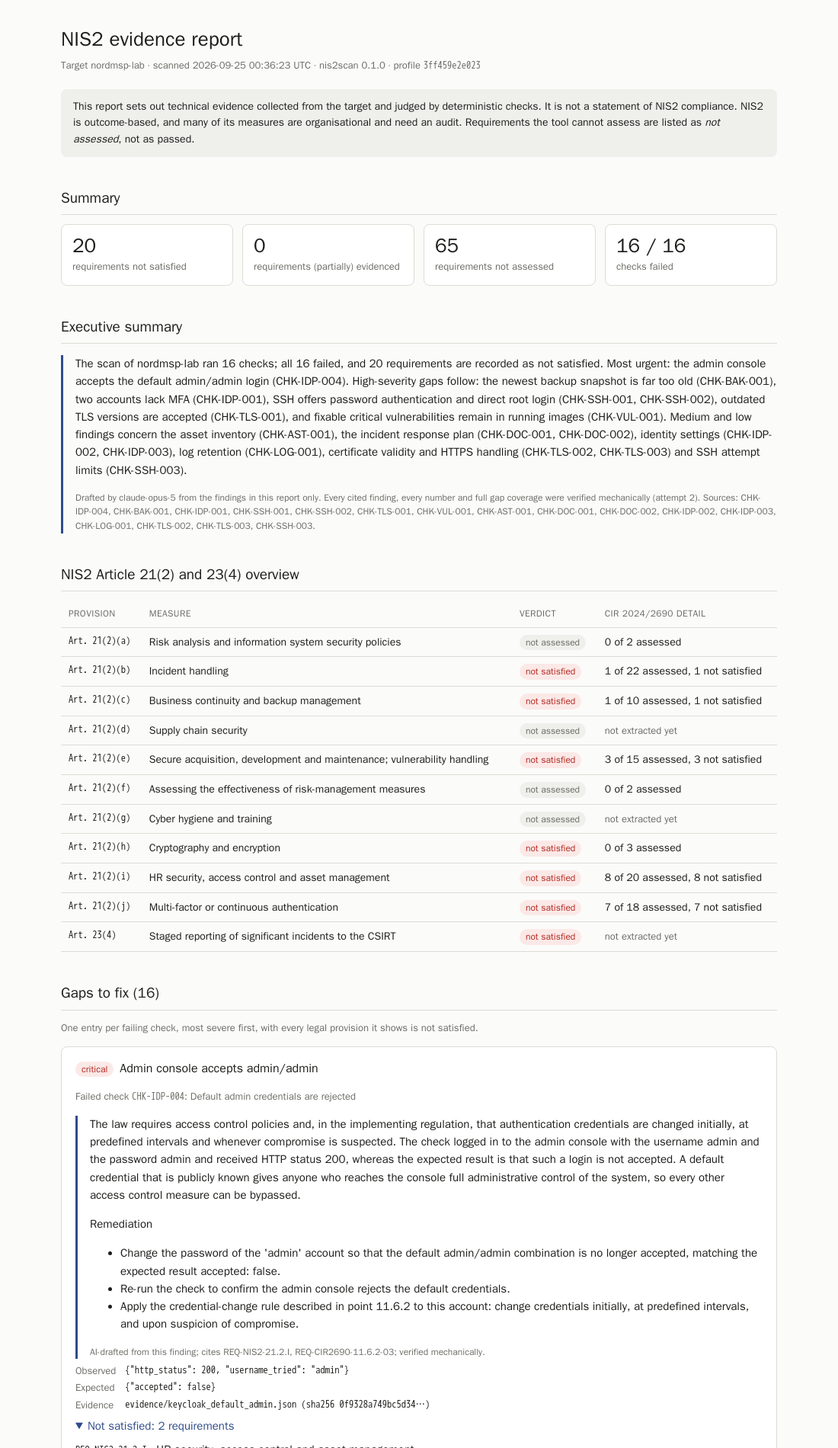
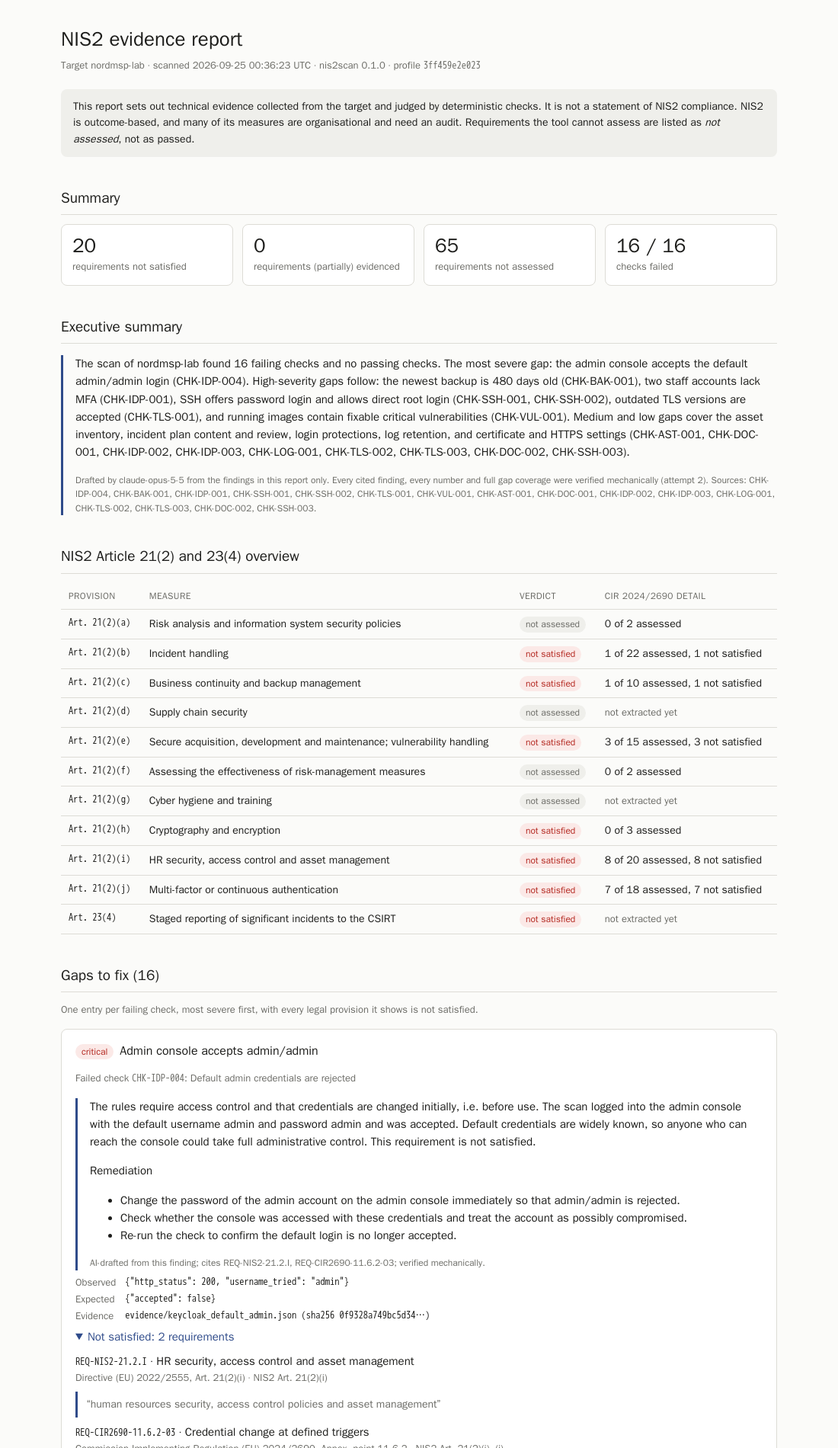
Use the Opus 5.5 narrative in the example report and update docs
The design doc's readability limitation now records that the model
change, not a looser validator, resolved it.

Changed region(s): [[0.0618, 0.2484, 0.9273, 1.0], [0.6182, 0.4037, 0.9273, 0.6521]]

diff --git a/docs/example-report/weak/report.html b/docs/example-report/weak/report.html
@@ -84,11 +84,11 @@
   
   <h2>Executive summary</h2>
   <div class="narrative">
-    <p>The scan of nordmsp-lab ran 16 checks; all 16 failed, and 20 requirements are recorded as not satisfied. Most urgent: the admin console accepts the default admin/admin login (CHK-IDP-004). High-severity gaps follow: the newest backup snapshot is far too old (CHK-BAK-001), two accounts lack MFA (CHK-IDP-001), SSH offers password authentication and direct root login (CHK-SSH-001, CHK-SSH-002), outdated TLS versions are accepted (CHK-TLS-001), and fixable critical vulnerabilities remain in running images (CHK-VUL-001). Medium and low findings concern the asset inventory (CHK-AST-001), the incident response plan (CHK-DOC-001, CHK-DOC-002), identity settings (CHK-IDP-002, CHK-IDP-003), log retention (CHK-LOG-001), certificate validity and HTTPS handling (CHK-TLS-002, CHK-TLS-003) and SSH attempt limits (CHK-SSH-003).</p>
+    <p>The scan of nordmsp-lab found 16 failing checks and no passing checks. The most severe gap: the admin console accepts the default admin/admin login (CHK-IDP-004). High-severity gaps follow: the newest backup is 480 days old (CHK-BAK-001), two staff accounts lack MFA (CHK-IDP-001), SSH offers password login and allows direct root login (CHK-SSH-001, CHK-SSH-002), outdated TLS versions are accepted (CHK-TLS-001), and running images contain fixable critical vulnerabilities (CHK-VUL-001). Medium and low gaps cover the asset inventory, incident plan content and review, login protections, log retention, and certificate and HTTPS settings (CHK-AST-001, CHK-DOC-001, CHK-IDP-002, CHK-IDP-003, CHK-LOG-001, CHK-TLS-002, CHK-TLS-003, CHK-DOC-002, CHK-SSH-003).</p>
     <div class="ai-label">
-      Drafted by claude-opus-5 from the findings in this report only. Every cited
+      Drafted by claude-opus-5-5 from the findings in this report only. Every cited
       finding, every number and full gap coverage were verified mechanically
-      (attempt 2). Sources: CHK-IDP-004, CHK-BAK-001, CHK-IDP-001, CHK-SSH-001, CHK-SSH-002, CHK-TLS-001, CHK-VUL-001, CHK-AST-001, CHK-DOC-001, CHK-DOC-002, CHK-IDP-002, CHK-IDP-003, CHK-LOG-001, CHK-TLS-002, CHK-TLS-003, CHK-SSH-003.
+      (attempt 2). Sources: CHK-IDP-004, CHK-BAK-001, CHK-IDP-001, CHK-SSH-001, CHK-SSH-002, CHK-TLS-001, CHK-VUL-001, CHK-AST-001, CHK-DOC-001, CHK-IDP-002, CHK-IDP-003, CHK-LOG-001, CHK-TLS-002, CHK-TLS-003, CHK-DOC-002, CHK-SSH-003.
     </div>
   </div>
   
@@ -189,9 +189,9 @@
     <div class="meta">Failed check <span class="mono">CHK-IDP-004</span>: Default admin credentials are rejected</div>
     
     <div class="narrative">
-      <p>The law requires access control policies and, in the implementing regulation, that authentication credentials are changed initially, at predefined intervals and whenever compromise is suspected. The check logged in to the admin console with the username admin and the password admin and received HTTP status 200, whereas the expected result is that such a login is not accepted. A default credential that is publicly known gives anyone who reaches the console full administrative control of the system, so every other access control measure can be bypassed.</p>
+      <p>The rules require access control and that credentials are changed initially, i.e. before use. The scan logged into the admin console with the default username admin and password admin and was accepted. Default credentials are widely known, so anyone who can reach the console could take full administrative control. This requirement is not satisfied.</p>
       <b>Remediation</b>
-      <ul><li>Change the password of the &#39;admin&#39; account so that the default admin/admin combination is no longer accepted, matching the expected result accepted: false.</li><li>Re-run the check to confirm the admin console rejects the default credentials.</li><li>Apply the credential-change rule described in point 11.6.2 to this account: change credentials initially, at predefined intervals, and upon suspicion of compromise.</li></ul>
+      <ul><li>Change the password of the admin account on the admin console immediately so that admin/admin is rejected.</li><li>Check whether the console was accessed with these credentials and treat the account as possibly compromised.</li><li>Re-run the check to confirm the default login is no longer accepted.</li></ul>
       <div class="ai-label">AI-drafted from this finding; cites REQ-NIS2-21.2.I, REQ-CIR2690-11.6.2-03; verified mechanically.</div>
     </div>
     
@@ -227,9 +227,9 @@
     <div class="meta">Failed check <span class="mono">CHK-BAK-001</span>: A recent backup snapshot exists</div>
     
     <div class="narrative">
-      <p>NIS2 requires business continuity including backup management, and the implementing regulation requires that backup copies of data are maintained. The scan found only 1 snapshot, with the newest dated 2025-06-01 and reported as 480 days old (age_hours 11542.6), against an expected max_age_hours of 26. Recovery from an incident would therefore fall back to a very old copy, and everything created since that snapshot would be lost.</p>
+      <p>The rules require backup management and that backup copies of data are maintained. The scan found only one backup snapshot, and it is 480 days old, far beyond the maximum age the profile allows. If data were lost or corrupted today, almost everything changed since that snapshot could not be recovered, threatening business continuity.</p>
       <b>Remediation</b>
-      <ul><li>Run and verify a new backup so a fresh snapshot exists for the target.</li><li>Schedule backups so that the newest snapshot always stays within the expected max_age_hours value of 26.</li><li>Monitor the age of the newest snapshot and alert when it approaches that expected value.</li></ul>
+      <ul><li>Restore regular, automated backup runs so that a new snapshot is produced within the maximum age set in the profile.</li><li>Monitor backup jobs and alert when the newest snapshot becomes older than allowed.</li><li>Test restoring from a recent snapshot to confirm the copies are usable.</li></ul>
       <div class="ai-label">AI-drafted from this finding; cites REQ-NIS2-21.2.C, REQ-CIR2690-4.2.1-01; verified mechanically.</div>
     </div>
     
@@ -265,9 +265,9 @@
     <div class="meta">Failed check <span class="mono">CHK-IDP-001</span>: Every staff account has MFA enrolled or is forced to enrol</div>
     
     <div class="narrative">
-      <p>The directive and the implementing regulation call for multi-factor or continuous authentication for access to network and information systems, and specifically strong authentication such as MFA for privileged and system administration accounts. The scan observed two accounts without MFA, kari.admin and ola.tech, and that new accounts are not required to enrol OTP (new_users_must_enrol_otp: false). A stolen or guessed password alone is then enough to sign in, and the gap will keep growing as new accounts are created.</p>
+      <p>The rules call for multi-factor authentication, especially for privileged and administration accounts. The accounts kari.admin and ola.tech have no MFA, and new accounts are not required to enrol a one-time-password (OTP) factor. A stolen or guessed password alone would be enough to access these accounts, including what appears to be an administrator account.</p>
       <b>Remediation</b>
-      <ul><li>Enrol MFA for the accounts kari.admin and ola.tech so that users_without_mfa becomes empty.</li><li>Set new_users_must_enrol_otp to true so that newly created accounts are required to enrol OTP.</li><li>Re-run the check to confirm both expected values are met.</li></ul>
+      <ul><li>Enrol MFA for kari.admin and ola.tech.</li><li>Turn on the setting that requires new users to enrol OTP (new_users_must_enrol_otp = true).</li><li>Re-run the check to confirm no account remains without MFA.</li></ul>
       <div class="ai-label">AI-drafted from this finding; cites REQ-NIS2-21.2.J, REQ-CIR2690-11.3.2-01, REQ-CIR2690-11.7.1-01; verified mechanically.</div>
     </div>
     
@@ -309,9 +309,9 @@
     <div class="meta">Failed check <span class="mono">CHK-SSH-001</span>: SSH does not offer password authentication</div>
     
     <div class="narrative">
-      <p>Access control policies must ensure the strength of authentication is appropriate to the classification of the asset being accessed. The SSH server offers both password and publickey authentication, while the check expects password, keyboard-interactive and none not to be offered. Because password login remains available, remote attackers can attempt to guess credentials for shell access instead of being limited to key-based authentication.</p>
+      <p>The rules require authentication strength that matches the importance of the system. The SSH server offers password login alongside key-based login. Passwords can be guessed or reused from elsewhere, so offering them weakens remote access to the server.</p>
       <b>Remediation</b>
-      <ul><li>Reconfigure the SSH server so password authentication is no longer offered, leaving publickey as the offered method.</li><li>Ensure keyboard-interactive and none are likewise not offered, as listed under expected not_offered.</li><li>Confirm the required users hold working public keys before the change, then re-run the check.</li></ul>
+      <ul><li>Disable password authentication on the SSH server so that only publickey is offered.</li><li>Make sure keyboard-interactive and none are also not offered.</li><li>Confirm all administrators have working keys before the change.</li></ul>
       <div class="ai-label">AI-drafted from this finding; cites REQ-NIS2-21.2.I, REQ-CIR2690-11.6.2-01, REQ-CIR2690-11.7.2-01; verified mechanically.</div>
     </div>
     
@@ -353,9 +353,9 @@
     <div class="meta">Failed check <span class="mono">CHK-SSH-002</span>: Direct root login over SSH is disabled</div>
     
     <div class="narrative">
-      <p>The implementing regulation requires administration privileges to be individualised and restricted to the highest extent possible. The scan found PermitRootLogin set to &#39;yes&#39;, while the expected setting is &#39;no&#39;. Direct root login means administrative actions are performed through a shared, fully privileged account, so actions cannot be traced to an individual and one compromised credential grants complete control of the host.</p>
+      <p>The rules require administration privileges to be individualised and restricted. The SSH server allows direct login as root (PermitRootLogin is &#39;yes&#39;). Root is a shared, all-powerful account, so logins cannot be traced to a person and an attacker gains full control in one step.</p>
       <b>Remediation</b>
-      <ul><li>Set PermitRootLogin to &#39;no&#39; in the SSH server configuration, matching the expected value.</li><li>Ensure administrators have individual accounts with the privilege escalation they need before applying the change.</li><li>Restart or reload the SSH service and re-run the check.</li></ul>
+      <ul><li>Set PermitRootLogin to &#39;no&#39; in the SSH server configuration.</li><li>Have administrators log in with personal accounts and elevate privileges only when needed.</li></ul>
       <div class="ai-label">AI-drafted from this finding; cites REQ-NIS2-21.2.I, REQ-CIR2690-11.3.2-03; verified mechanically.</div>
     </div>
     
@@ -391,9 +391,9 @@
     <div class="meta">Failed check <span class="mono">CHK-TLS-001</span>: TLS versions below the profile minimum are refused</div>
     
     <div class="narrative">
-      <p>NIS2 requires policies and procedures on the use of cryptography and, where appropriate, encryption. The server accepts TLSv1, TLSv1.1 and TLSv1.2, whereas the profile expects a minimum version of TLSv1.2. Because the two older versions are still accepted, a client or an attacker positioned in the network path can negotiate the weaker protocol instead of the stronger one, undermining the protection of traffic in transit.</p>
+      <p>The rules require policies on the use of cryptography and encryption. The server still accepts TLSv1 and TLSv1.1 in addition to TLSv1.2, while the profile sets TLSv1.2 as the minimum. Accepting older versions allows connections to fall back to weaker protection of data in transit.</p>
       <b>Remediation</b>
-      <ul><li>Configure the server to refuse TLSv1 and TLSv1.1 so that accepted versions start at the expected min_version TLSv1.2.</li><li>Re-run the check to confirm only versions at or above TLSv1.2 are accepted.</li></ul>
+      <ul><li>Configure the server to refuse TLSv1 and TLSv1.1 so that TLSv1.2 is the minimum accepted version.</li><li>Re-run the check to confirm only permitted versions are accepted.</li></ul>
       <div class="ai-label">AI-drafted from this finding; cites REQ-NIS2-21.2.H; verified mechanically.</div>
     </div>
     
@@ -423,9 +423,9 @@
     <div class="meta">Failed check <span class="mono">CHK-VUL-001</span>: No unaccepted, fixable vulnerability at the failing severity in running images</div>
     
     <div class="narrative">
-      <p>The directive covers vulnerability handling, and the implementing regulation requires appropriate measures to manage vulnerabilities, that critical vulnerabilities are addressed without undue delay, and that security patches are applied within a reasonable time after they become available. Across 6 images scanned, the check found fixable CRITICAL vulnerabilities in nginx:1.20 (17), quay.io/keycloak/keycloak:26.3 (4), nis2lab-backup (3) and grafana/loki:3.5.1 (2), with no accepted risks recorded, and nginx:1.20 flagged under os_end_of_support. Fixes already exist for these issues, so the exposure is avoidable.</p>
+      <p>The rules require vulnerability handling, addressing critical vulnerabilities without undue delay and applying security patches within a reasonable time. Of 6 images scanned, 4 contain critical vulnerabilities for which a fix is available: nginx:1.20 (17), quay.io/keycloak/keycloak:26.3 (4), nis2lab-backup (3) and grafana/loki:3.5.1 (2). No risks have been formally accepted, and nginx:1.20 runs on an operating system that is out of support. Known, fixable weaknesses are a common entry point for attackers.</p>
       <b>Remediation</b>
-      <ul><li>Update the affected images (nginx:1.20, quay.io/keycloak/keycloak:26.3, nis2lab-backup, grafana/loki:3.5.1) to versions where the listed fixable CRITICAL CVEs are resolved.</li><li>Give priority to nginx:1.20, which carries 17 findings and is listed under os_end_of_support.</li><li>Where a fix cannot be applied immediately, record the item explicitly under accepted_risks with a rationale, and re-run the check to confirm no unaccepted fixable CRITICAL findings remain.</li></ul>
+      <ul><li>Update nginx:1.20, quay.io/keycloak/keycloak:26.3, nis2lab-backup and grafana/loki:3.5.1 to images in which the listed CRITICAL vulnerabilities are fixed.</li><li>Replace nginx:1.20 with an image whose operating system is still supported.</li><li>Where a vulnerability cannot be fixed promptly, record a formal accepted-risk decision.</li><li>Re-scan the running images to confirm no fixable CRITICAL vulnerabilities remain.</li></ul>
       <div class="ai-label">AI-drafted from this finding; cites REQ-NIS2-21.2.E, REQ-CIR2690-6.10.1-03, REQ-CIR2690-6.10.2-03, REQ-CIR2690-6.6.1-02; verified mechanically.</div>
     </div>
     
@@ -473,9 +473,9 @@
     <div class="meta">Failed check <span class="mono">CHK-AST-001</span>: Every running service is in the asset inventory</div>
     
     <div class="narrative">
-      <p>Asset management under NIS2, detailed in point 12.4.1, requires a complete, accurate, up-to-date and consistent inventory of assets. Of the running services (backup, host, idp, legacy-web, logs, web), three are not in the inventory: backup, legacy-web and logs. Services that are not recorded are unlikely to be patched, monitored or included in incident handling, and the expected result is that no undeclared services remain.</p>
+      <p>The rules require a complete, accurate and up-to-date asset inventory. Three running services (backup, legacy-web and logs) are not in the inventory. Services nobody has recorded tend not to be patched, monitored or owned, which leaves blind spots.</p>
       <b>Remediation</b>
-      <ul><li>Add backup, legacy-web and logs to the asset inventory with their owners and relevant details.</li><li>Confirm the inventory matches the running services list so that undeclared_services is empty.</li><li>Re-run the check after updating the inventory.</li></ul>
+      <ul><li>Add backup, legacy-web and logs to the asset inventory with an owner and purpose, or shut down any that are not needed.</li><li>Compare running services against the inventory regularly.</li></ul>
       <div class="ai-label">AI-drafted from this finding; cites REQ-NIS2-21.2.I, REQ-CIR2690-12.4.1-01; verified mechanically.</div>
     </div>
     
@@ -511,9 +511,9 @@
     <div class="meta">Failed check <span class="mono">CHK-DOC-001</span>: Incident response plan covers the NIS2 reporting stages</div>
     
     <div class="narrative">
-      <p>Article 23(4) sets out staged reporting of significant incidents, beginning with an early warning without undue delay and in any event within 24 hours of becoming aware of the incident. The document incident-response.md does not mention the 24h early warning, the 72h incident notification, the one-month final report or the CSIRT contact. Without these in the plan, staff handling an incident have no written instruction on what to report, when, or to whom.</p>
+      <p>NIS2 requires staged reporting of significant incidents to the CSIRT, starting with an early warning within 24 hours. The incident response plan (incident-response.md) does not mention the 24h early warning, the 72h incident notification, the one-month final report or the CSIRT contact. During an incident, staff may miss legal reporting deadlines.</p>
       <b>Remediation</b>
-      <ul><li>Add sections to incident-response.md covering the 24h early warning, the 72h incident notification and the one-month final report.</li><li>Record the CSIRT contact in the same document.</li><li>Re-run the check to confirm all four expected items are mentioned.</li></ul>
+      <ul><li>Update incident-response.md to describe the 24h early warning, 72h incident notification and one-month final report.</li><li>Add the CSIRT contact details to the plan.</li><li>Brief the incident team on the updated reporting steps.</li></ul>
       <div class="ai-label">AI-drafted from this finding; cites REQ-NIS2-23.4; verified mechanically.</div>
     </div>
     
@@ -543,9 +543,9 @@
     <div class="meta">Failed check <span class="mono">CHK-IDP-002</span>: Brute-force protection is enabled on the staff realm</div>
     
     <div class="narrative">
-      <p>Point 11.6.2 requires credential reset and blocking of users after a predefined number of unsuccessful log-in attempts. In the staff realm, bruteForceProtected is false even though a failureFactor of 30 is configured, so the blocking behaviour never takes effect. Attackers can therefore make unlimited password guesses against staff accounts without being stopped.</p>
+      <p>The rules require blocking users after a predefined number of unsuccessful log-in attempts. Brute-force protection is switched off on the staff realm, so an attacker can keep guessing passwords without being blocked.</p>
       <b>Remediation</b>
-      <ul><li>Set bruteForceProtected to true on the staff realm so the configured failureFactor takes effect.</li><li>Re-run the check to confirm brute-force protection is enabled.</li></ul>
+      <ul><li>Enable brute-force protection on the staff realm (bruteForceProtected = true).</li><li>Review the failureFactor setting (currently 30) to decide how many failed attempts trigger blocking.</li></ul>
       <div class="ai-label">AI-drafted from this finding; cites REQ-NIS2-21.2.I, REQ-CIR2690-11.6.2-04; verified mechanically.</div>
     </div>
     
@@ -581,9 +581,9 @@
     <div class="meta">Failed check <span class="mono">CHK-IDP-003</span>: Password policy enforces the profile&#39;s minimum length</div>
     
     <div class="narrative">
-      <p>Both cited points of the implementing regulation require authentication strength appropriate to the classification of the asset being accessed. The scan found passwordPolicy set to null and min_length 0, meaning no minimum password length is enforced, against an expected minimum length of at least 12. Users can therefore choose very short passwords that are quick to guess.</p>
+      <p>The rules require authentication strength that fits the systems being accessed. No password policy is set, so there is no minimum password length, while the profile expects at least 12. Users can therefore choose very short, easily guessed passwords.</p>
       <b>Remediation</b>
-      <ul><li>Configure a password policy that sets a minimum length of at least 12, replacing the current empty passwordPolicy.</li><li>Re-run the check to confirm the minimum length is enforced.</li></ul>
+      <ul><li>Configure a password policy with a minimum length of at least 12.</li><li>Require users with passwords that do not meet the new policy to change them.</li></ul>
       <div class="ai-label">AI-drafted from this finding; cites REQ-NIS2-21.2.I, REQ-CIR2690-11.6.2-01, REQ-CIR2690-11.7.2-01; verified mechanically.</div>
     </div>
     
@@ -625,9 +625,9 @@
     <div class="meta">Failed check <span class="mono">CHK-LOG-001</span>: Central logs are kept at least as long as the profile requires</div>
     
     <div class="narrative">
-      <p>Incident handling under NIS2 and point 3.2.5 require logs to be maintained and backed up for a predefined period. Central logs are configured with retention_period 1w, that is retention_days 7, while the profile expects min_retention_days of 90. Evidence needed to investigate an incident detected later is therefore deleted before it can be examined.</p>
+      <p>The rules require logs to be maintained for a predefined period to support incident handling. Central logs are deleted after 7 days, while the profile requires at least 90. Incidents are often discovered late; by then the evidence needed to investigate may already be gone.</p>
       <b>Remediation</b>
-      <ul><li>Increase the central log retention setting from retention_days 7 to at least the expected min_retention_days of 90.</li><li>Ensure storage is sized for the longer retention and that logs are backed up as required by point 3.2.5.</li><li>Re-run the check to confirm the retention setting.</li></ul>
+      <ul><li>Change the log retention period from 7 days to at least 90 days.</li><li>Make sure logs are also backed up.</li></ul>
       <div class="ai-label">AI-drafted from this finding; cites REQ-NIS2-21.2.B, REQ-CIR2690-3.2.5-01; verified mechanically.</div>
     </div>
     
@@ -663,9 +663,9 @@
     <div class="meta">Failed check <span class="mono">CHK-TLS-002</span>: Certificate is valid and not about to expire</div>
     
     <div class="narrative">
-      <p>NIS2 requires policies and procedures on the use of cryptography and, where appropriate, encryption. The certificate has not_before 2024-01-01 and not_after 2025-01-01 and is reported as expired, with days_left of -633 against an expected min_days_remaining of 14. An expired certificate causes client warnings or failures and removes the assurance that users are connecting to the genuine service.</p>
+      <p>The rules require policies on the use of cryptography. The server&#39;s certificate expired on 2025-01-01. An expired certificate causes browser warnings, trains users to ignore security warnings and means visitors cannot reliably confirm they are talking to the genuine server.</p>
       <b>Remediation</b>
-      <ul><li>Issue and install a current certificate for the service to replace the one with not_after 2025-01-01.</li><li>Set up renewal and alerting so the certificate is replaced before it falls below the expected min_days_remaining of 14.</li><li>Re-run the check to confirm the certificate is valid.</li></ul>
+      <ul><li>Obtain and install a new, valid certificate for the server.</li><li>Set up renewal tracking or automatic renewal so the certificate is replaced well before it expires.</li></ul>
       <div class="ai-label">AI-drafted from this finding; cites REQ-NIS2-21.2.H; verified mechanically.</div>
     </div>
     
@@ -695,9 +695,9 @@
     <div class="meta">Failed check <span class="mono">CHK-TLS-003</span>: Plain HTTP redirects to HTTPS and HSTS is set</div>
     
     <div class="narrative">
-      <p>Under the cryptography and encryption requirement, traffic should be protected in transit. The scan found that plain HTTP returns http_status 200 with no location redirect and no Strict-Transport-Security header, while the expected result is that HTTP redirects to HTTPS and HSTS is set. Users and clients can therefore continue over unencrypted HTTP, exposing credentials and data to interception.</p>
+      <p>The rules require policies on the use of encryption. Plain HTTP requests are answered directly instead of being redirected to HTTPS, and no Strict-Transport-Security (HSTS) header is sent. Users may use the site unencrypted, exposing data to interception.</p>
       <b>Remediation</b>
-      <ul><li>Configure the web service so plain HTTP requests redirect to HTTPS instead of returning a 200 response.</li><li>Add the Strict-Transport-Security header to HTTPS responses.</li><li>Re-run the check to confirm both expected values are met.</li></ul>
+      <ul><li>Configure the web server to redirect all plain HTTP requests to HTTPS.</li><li>Add the Strict-Transport-Security header to HTTPS responses.</li></ul>
       <div class="ai-label">AI-drafted from this finding; cites REQ-NIS2-21.2.H; verified mechanically.</div>
     </div>
     
@@ -727,9 +727,9 @@
     <div class="meta">Failed check <span class="mono">CHK-DOC-002</span>: Incident response plan has been reviewed recently</div>
     
     <div class="narrative">
-      <p>Incident handling under Article 21(2)(b) depends on documentation that reflects the current environment. The document incident-response.md was last reviewed on 2023-02-14, 1319 days ago, against an expected maximum review age of 365 days. Contacts, roles and steps in a long-unreviewed plan are likely to be out of date when an incident occurs.</p>
+      <p>Incident handling depends on a current plan. incident-response.md was last reviewed on 2023-02-14, 1319 days ago, while the profile expects a review at least every 365 days. Contacts, systems and procedures in an outdated plan may no longer be correct.</p>
       <b>Remediation</b>
-      <ul><li>Review and update incident-response.md, then record the new review date.</li><li>Set a recurring review so the document&#39;s age stays within the expected maximum of 365 days.</li><li>Re-run the check after the review date is updated.</li></ul>
+      <ul><li>Review and update incident-response.md and record the new review date.</li><li>Schedule reviews so that the plan is never older than 365 days.</li></ul>
       <div class="ai-label">AI-drafted from this finding; cites REQ-NIS2-21.2.B; verified mechanically.</div>
     </div>
     
@@ -759,9 +759,9 @@
     <div class="meta">Failed check <span class="mono">CHK-SSH-003</span>: SSH limits authentication attempts per connection</div>
     
     <div class="narrative">
-      <p>Access control policies under Article 21(2)(i) include limiting how easily credentials can be guessed. The SSH server has MaxAuthTries set to 10, while the check expects at most 4. A higher allowance lets an attacker make more guesses per connection before being disconnected, making password-guessing attempts more efficient.</p>
+      <p>Access control includes limiting login attempts. The SSH server allows 10 authentication attempts per connection, while the profile allows at most 4. More attempts per connection make guessing credentials easier.</p>
       <b>Remediation</b>
-      <ul><li>Reduce MaxAuthTries in the SSH server configuration to 4 or lower.</li><li>Restart or reload the SSH service and re-run the check.</li></ul>
+      <ul><li>Set MaxAuthTries to 4 or lower in the SSH server configuration.</li></ul>
       <div class="ai-label">AI-drafted from this finding; cites REQ-NIS2-21.2.I; verified mechanically.</div>
     </div>
     

diff --git a/docs/design.md b/docs/design.md
@@ -70,7 +70,8 @@ Requirement verdict roll-up (deterministic, `nis2scan.models.rollup`):
 ```
 
 1. **Extraction (offline).** `nis2scan extract` sends one Annex provision per request to
-   Claude Opus 5 and gets back schema-validated JSON (structured outputs, parsed into
+   Claude Opus 5.5 (medium effort, chosen by measurement) and gets back schema-validated
+   JSON (structured outputs, parsed into
    Pydantic models). Guard rails:
    - Every record must carry a verbatim `quote`; a **deterministic verifier** checks it
      appears in the *cited* provision of the hash-pinned source text. A parameter value
@@ -123,8 +124,10 @@ Requirement verdict roll-up (deterministic, `nis2scan.models.rollup`):
   meaning and get lost in paraphrase — hence the mandatory verbatim quote.
 - **Grounding and readability pull in opposite directions.** The narrative validator only
   accepts numbers and technical terms found in each gap's own data. That blocks invented
-  facts, but it nudges the model toward quoting field names ("retention_days 7") rather
-  than plain language. It's a prompt-level fix, not a reason to loosen the validator.
+  facts, but with Claude Opus 5 it nudged the model toward quoting field names
+  ("retention_days 7"). Claude Opus 5.5 keeps the same facts in plain language (18 field
+  names down to 1, [comparison](../eval/results/2026-09-25-opus-5-5.md)) under the same
+  validator. The model changed; the validator was not loosened.
 - **Most of Art. 21 is organisational** (policies, training, supply chain). These get
   `testability: organisational` and are reported as `NOT_ASSESSED`. Showing that honestly
   is a feature: the report states coverage, not just pass rate.
@@ -160,7 +163,8 @@ about national transposition law.
 - Python 3.12+, Pydantic v2 (schemas), Typer (CLI), PyYAML, pytest
 - Collectors: `docker` SDK, `paramiko`/`ssh -G`-style probing, `ssl`/`sslyze`, Keycloak admin
   REST API, Trivy JSON output
-- LLM layer (extraction + narration): Anthropic Python SDK (`claude-opus-5`, structured
+- LLM layer (extraction + narration): Anthropic Python SDK (`claude-opus-5-5` at medium
+  effort, configurable with `--model`/`--effort`; structured
   outputs); optional `llm` extra, so the scanner runs without an API key
 - Report: Jinja2 → static HTML + JSON (findings, verdicts)
 

diff --git a/docs/example-report/README.md b/docs/example-report/README.md
@@ -4,7 +4,7 @@ Real output from live scans of the demo lab on 2026-09-25. Nothing here is mocke
 
 | Folder | Lab profile | Result |
 |---|---|---|
-| [`weak/`](weak/) | deliberately misconfigured | 16/16 checks fail, 20 requirements not satisfied, AI narrative accepted on attempt 2 |
+| [`weak/`](weak/) | deliberately misconfigured | 16/16 checks fail, 20 requirements not satisfied, AI narrative (Claude Opus 5.5) accepted on attempt 2 |
 | [`hardened/`](hardened/) | gaps closed | 16/16 checks pass, 20 requirements partially evidenced, no gaps |
 
 ![Weak-profile report](weak-report.png)
@@ -15,7 +15,7 @@ source code. Each folder also holds the scan's raw material: `findings.json`,
 for the weak scan `narrative.json` (the accepted narrative and its model and prompt
 version).
 
-**Known weakness in the narrative:** because the validator only accepts numbers and terms
-that occur in the scan data, the model tends to quote field names literally ("retention_days
-7", "os_end_of_support") where a manager would need plain words. The next narrative prompt
-version should ask for plain-language wording of the same facts.
+**Narrative model:** the example uses Claude Opus 5.5. An earlier narrative of the same
+scan by Claude Opus 5 also passed the validator, but it quoted raw field names
+("retention_days 7") where managers need plain words. Opus 5.5 states the same facts in
+plain language ([comparison](../../eval/results/2026-09-25-opus-5-5.md)).
